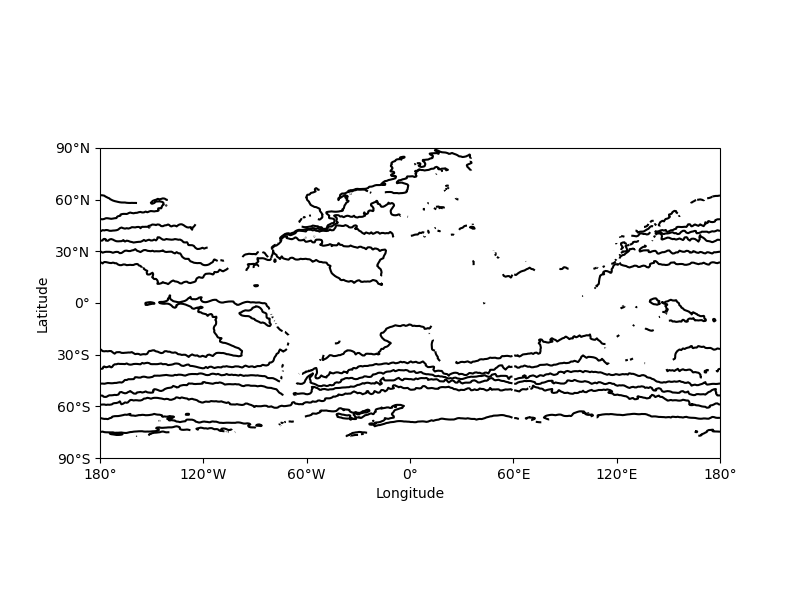
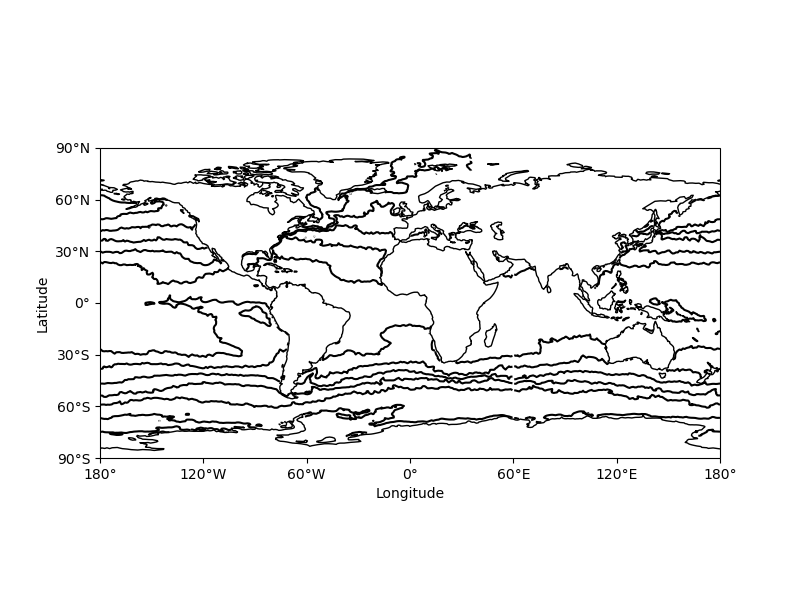
Added coastlines

diff --git a/testSSTPlot.py b/testSSTPlot.py
@@ -22,17 +22,17 @@ def main():
     
     #Create a contour plot of the SST data and plot it on a figure
     SST_map = MapContour(SST2d.coords["yh"], SST2d.coords["xh"], SST2d)
+
     plot = CreatePlot()
     plot.plot_layers = [SST_map]
     plot.projection = "plcarr"
     plot.domain = "global"
     plot.add_xlabel("Longitude")
     plot.add_ylabel("Latitude")
-    plot.add_colorbar()
+    plot.add_map_features(["coastline"])
 
     fig = CreateFigure()
     fig.plot_list = [plot]
-    #fig._map_contour(SST_map)
     fig.create_figure()
     fig.save_figure("figure1.png")
 
